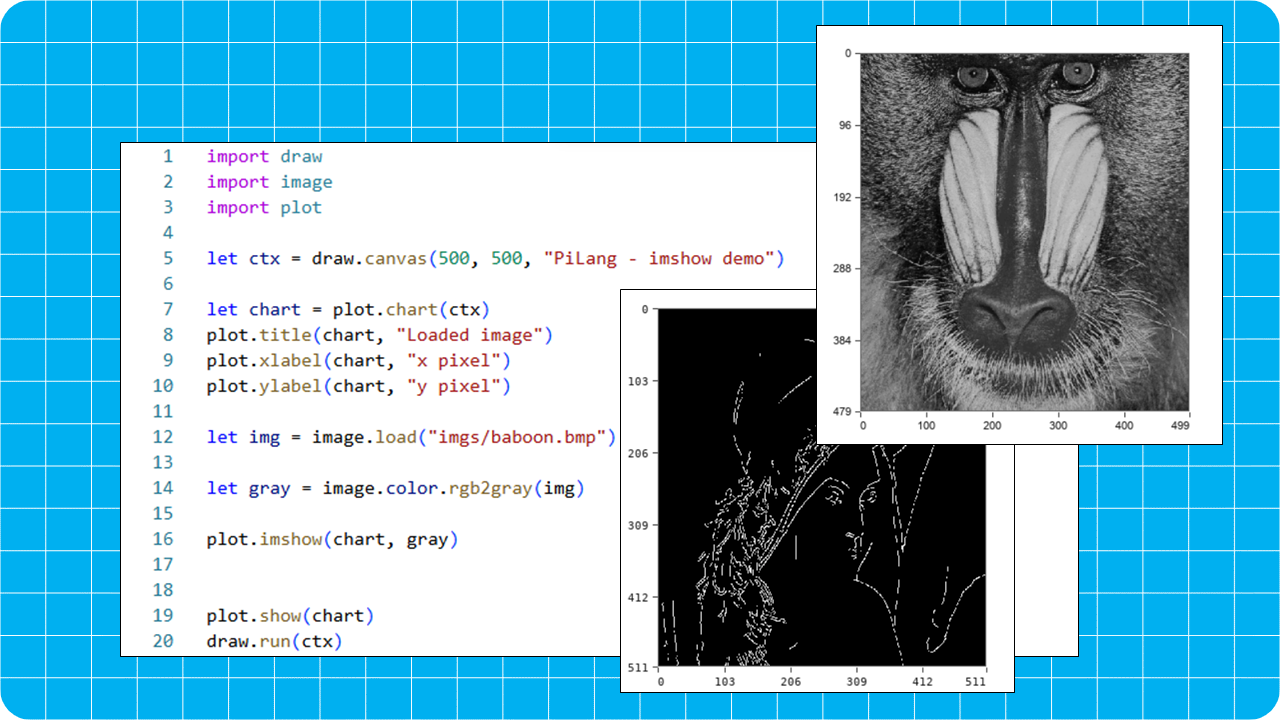
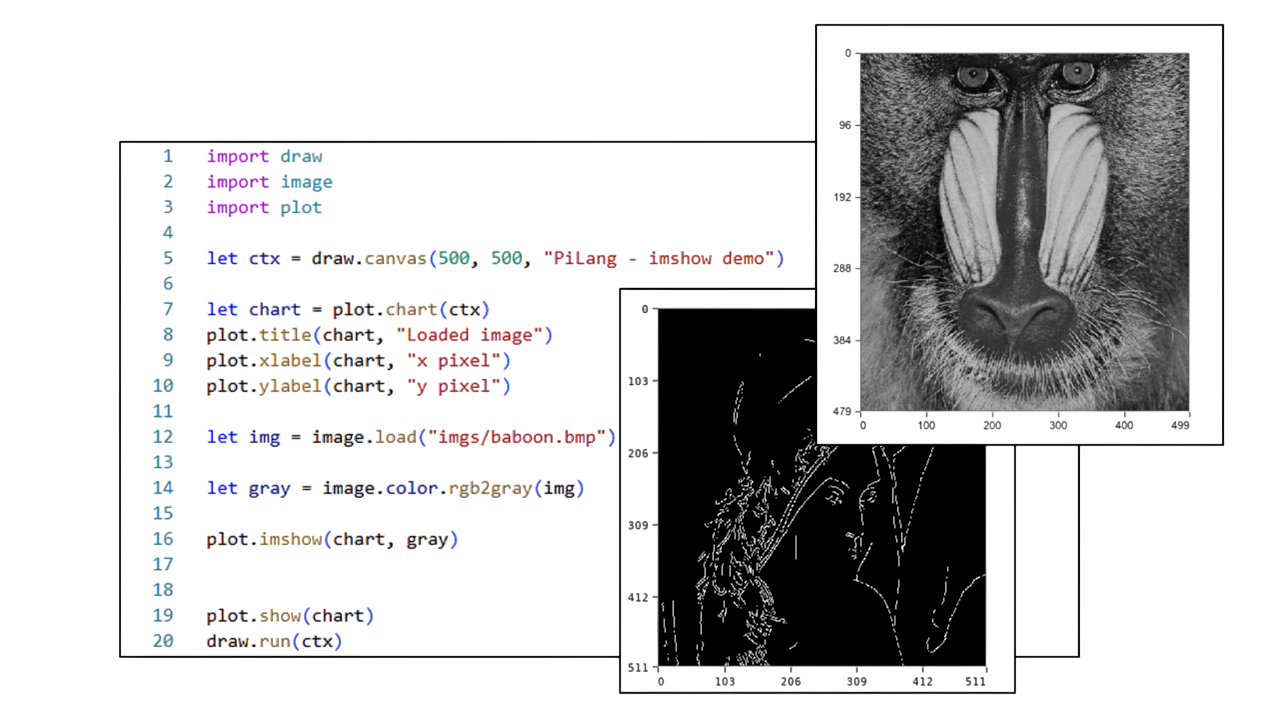
ref: orginize the builtin module section of the docs

diff --git a/docs/8. Modules/8.4 Built-in Modules/image.filters.md b/docs/8. Modules/8.4 Built-in Modules/image.filters.md
@@ -3,7 +3,11 @@
 The `image.filters` module contains image filtering operations. Most functions
 return a new image and leave the input image unchanged.
 
-![Pilang edge detection example](../edge%20detection.png)
+
+<div align="center">
+    <img src="./edge detection.png" width=300 alt="Pilang edge detection example"/>
+</div>
+<br/>
 
 ```swift
 import image
@@ -129,7 +133,10 @@ let mask = image.filters.threshold(img, 100)
 Runs a Canny-style edge detector: grayscale conversion, Gaussian blur,
 gradient magnitude, non-maximum suppression, and hysteresis thresholding.
 
-![Pilang Canny edge detection](edge%20detection.png)
+<div align="center">
+    <img src="./edge detection.png.png" width=300 alt="Pilang edge detection example"/>
+</div>
+<br/>
 
 ```swift
 let edges = image.filters.canny(img, 40, 120)

diff --git a/docs/8. Modules/8.4 Built-in Modules/image.md b/docs/8. Modules/8.4 Built-in Modules/image.md
@@ -5,7 +5,10 @@ native image objects, transforms image dimensions, displays and saves images,
 and converts between images and tensors for numerical and machine-learning
 workflows.
 
-![Pilang image processing example](../grayscale.png)
+<div align="center">
+    <img src="./grayscale.png" width=300 alt="Pilang image processing example"/>
+</div>
+<br/>
 
 ```swift
 import image

diff --git a/docs/8. Modules/8.4 Built-in Modules/image.color.md b/docs/8. Modules/8.4 Built-in Modules/image.color.md
@@ -3,7 +3,11 @@
 The `image.color` module provides color-space conversion helpers for image
 objects. Each function returns a new image.
 
-![Pilang grayscale conversion example](grayscale.png)
+
+<div align="center">
+    <img src="./grayscale.png" width=300 alt="Pilang grayscale conversion example"/>
+</div>
+<br/>
 
 ```swift
 import image
